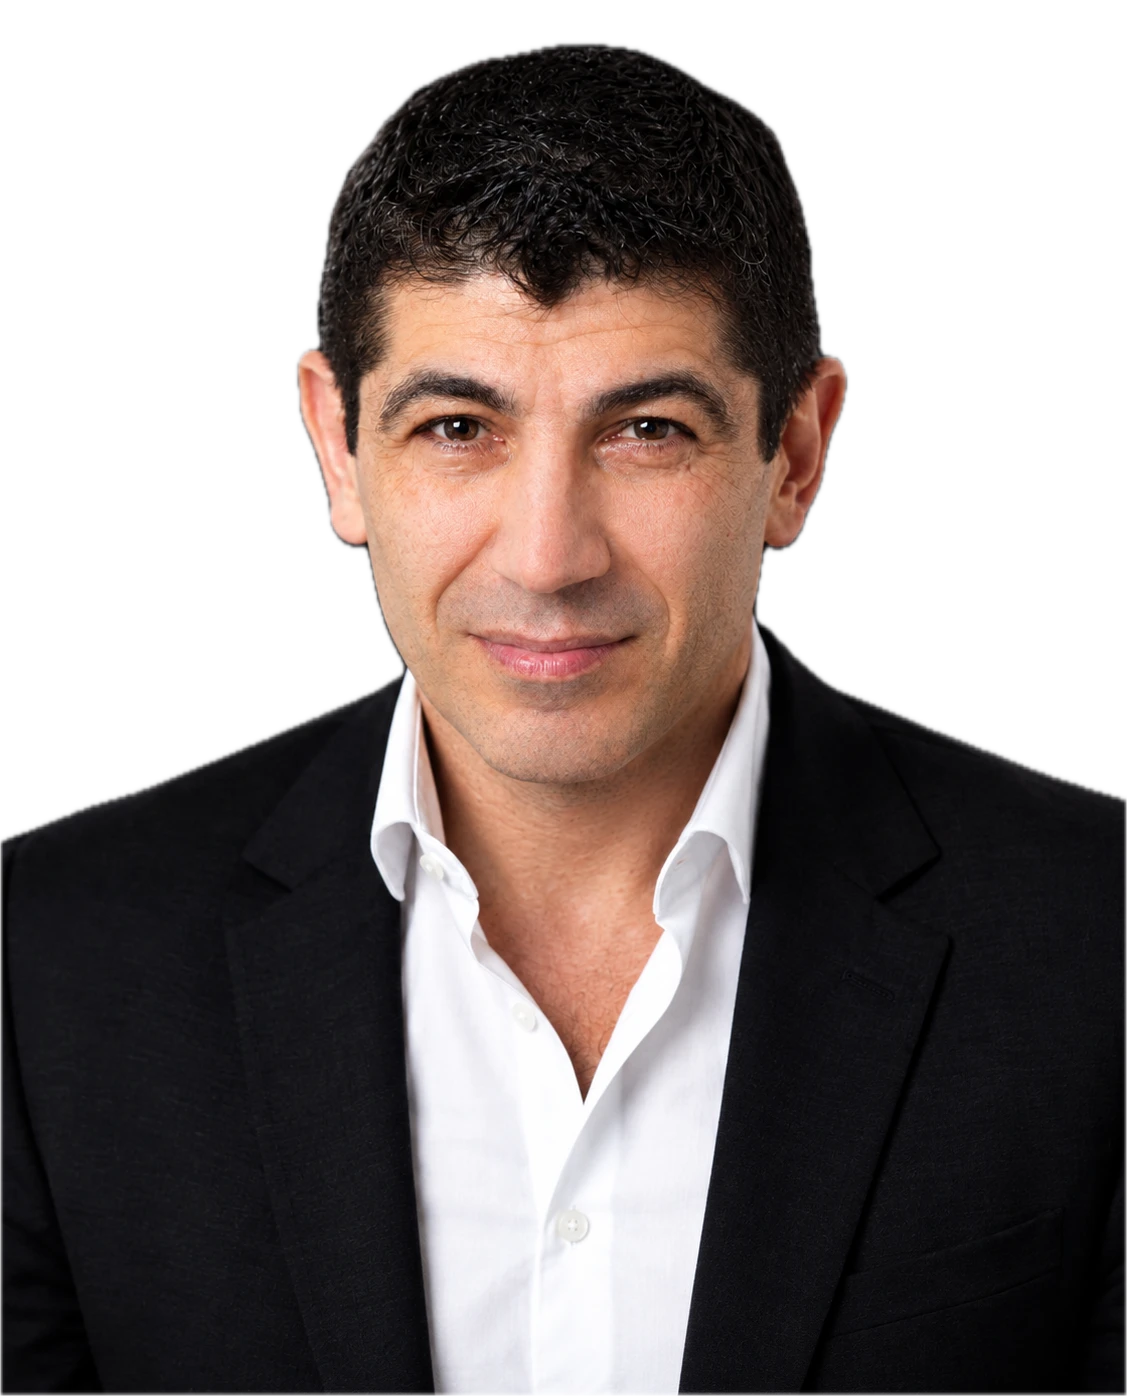
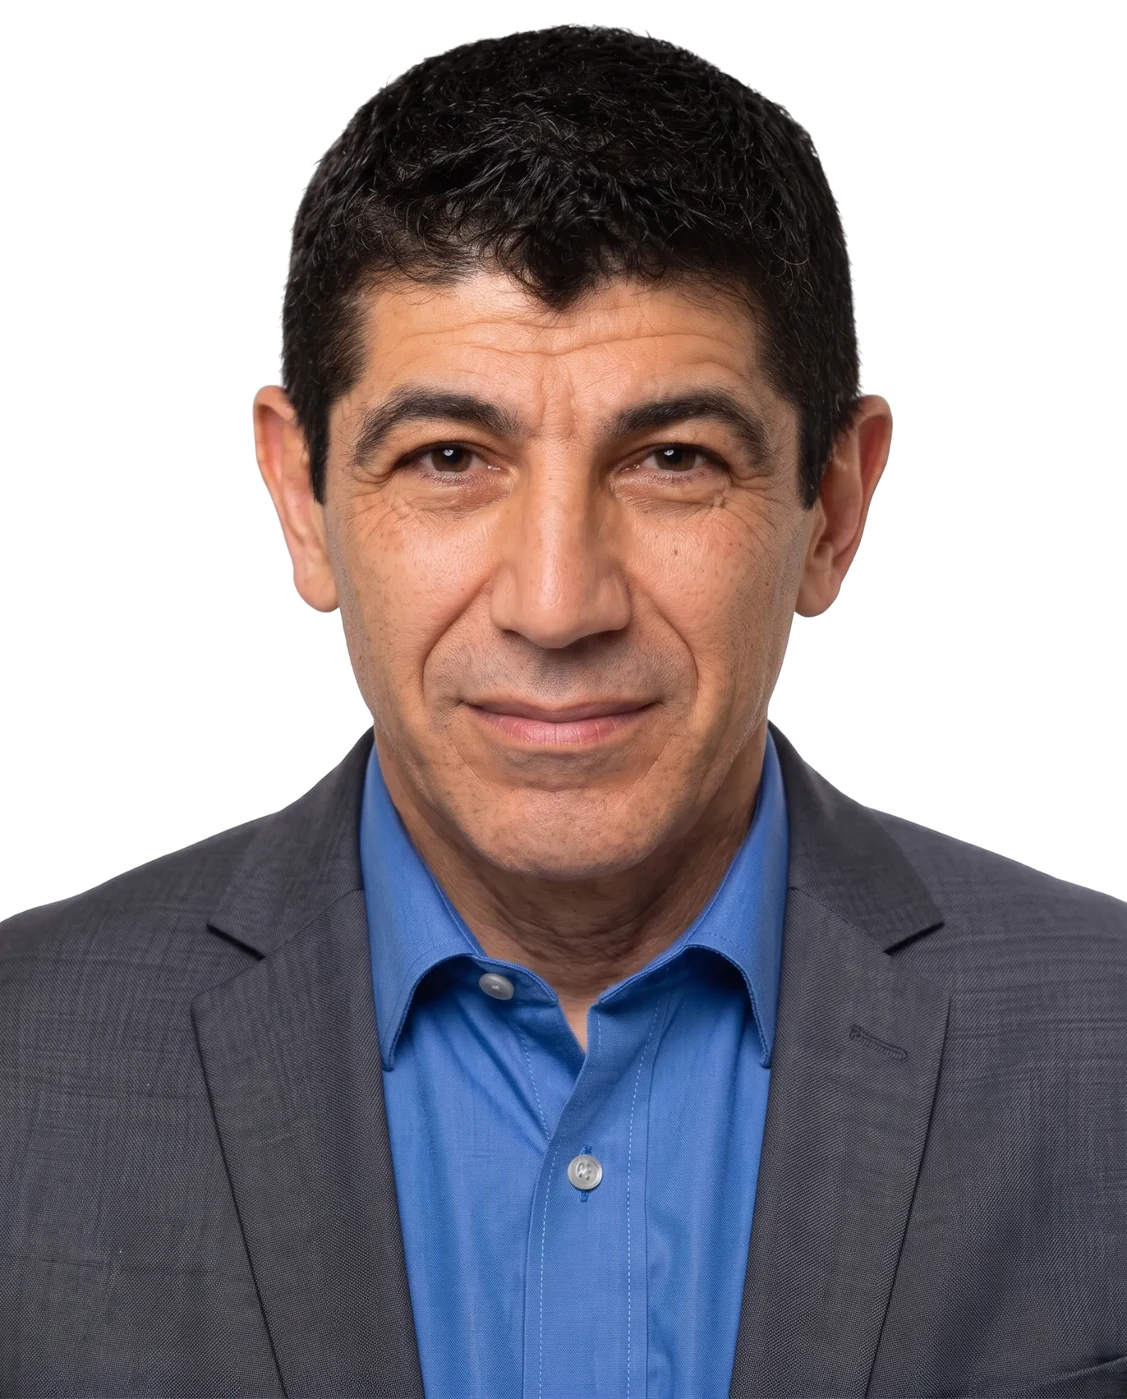
Neues Profilbild (freigestellt)
Claude-Session: https://claude.ai/code/session_01TpQRM6HLtnNgHZLMvDToh7

diff --git a/index.html b/index.html
@@ -37,7 +37,7 @@
       <div class="container">
         <div class="hero-wrapper">
           <div class="hero-left">
-            <img src="assets/img/profilbild-freigestellt.webp" alt="Porträtfoto von Ahmet Özcorapci" width="1127" height="1396">
+            <img src="assets/img/profilbild-freigestellt.webp?v=2" alt="Porträtfoto von Ahmet Özcorapci" width="1127" height="1399">
           </div>
           <div class="hero-right">
             <div class="subtitle-wrap"><p class="subtitle">Senior Program Manager · IT-Infrastruktur &amp; Cloud</p></div>
@@ -77,7 +77,7 @@
           </div>
           <div class="about-right">
             <div class="frame">
-              <img src="assets/img/profilbild-freigestellt.webp" alt="Porträtfoto von Ahmet Özcorapci" width="1127" height="1396" loading="lazy">
+              <img src="assets/img/profilbild-freigestellt.webp?v=2" alt="Porträtfoto von Ahmet Özcorapci" width="1127" height="1399" loading="lazy">
             </div>
           </div>
         </div>
